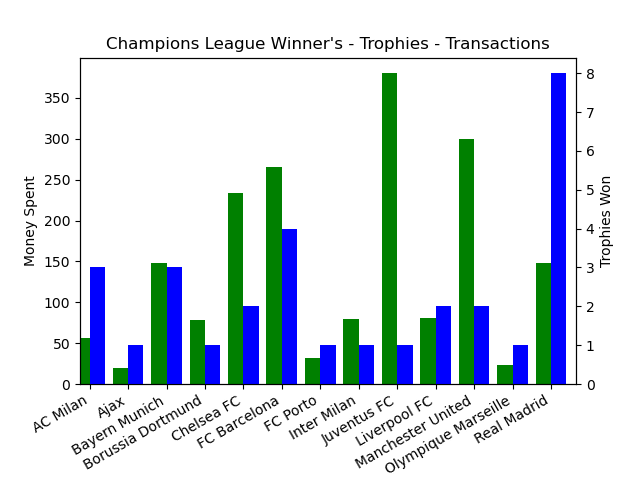
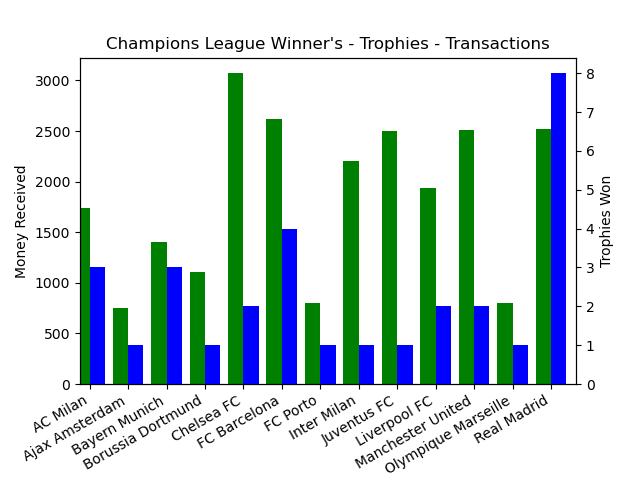
Plot winners

diff --git a/src/main.py b/src/main.py
@@ -91,6 +91,7 @@ def new_execution():
     prep = Preprocessing()
     sc = StatsAndCommunities()
     comm = Community()
+    ch_process = ChampionsDataProcess()
     
     soccer_dict, teams = util.create_dict(5)
     
@@ -135,11 +136,19 @@ def new_execution():
     
     
     """ 
-        Calculates the Pearson Correlation Coefficient for Champions League and Europa LEague Winners
+        Calculates the Spearman Rank Correlation Coefficient for Champions League and Europa League Winners
     """
     #calc_pearson_winners(spent_ch, received_ch, 0)
     #calc_pearson_winners(spent_el, received_el, 1)
- 
+    
+    """
+        Plot Spearman Rank Correlation Coefficient for Champions League and Europa League Winners
+    """
+    ch_process.plotting_categorical(spent_ch, 0, True)
+    ch_process.plotting_categorical(received_ch, 0, False)
+    
+    ch_process.plotting_categorical(spent_el, 1, True)
+    ch_process.plotting_categorical(received_el, 1, False)
 
     exit()
     
